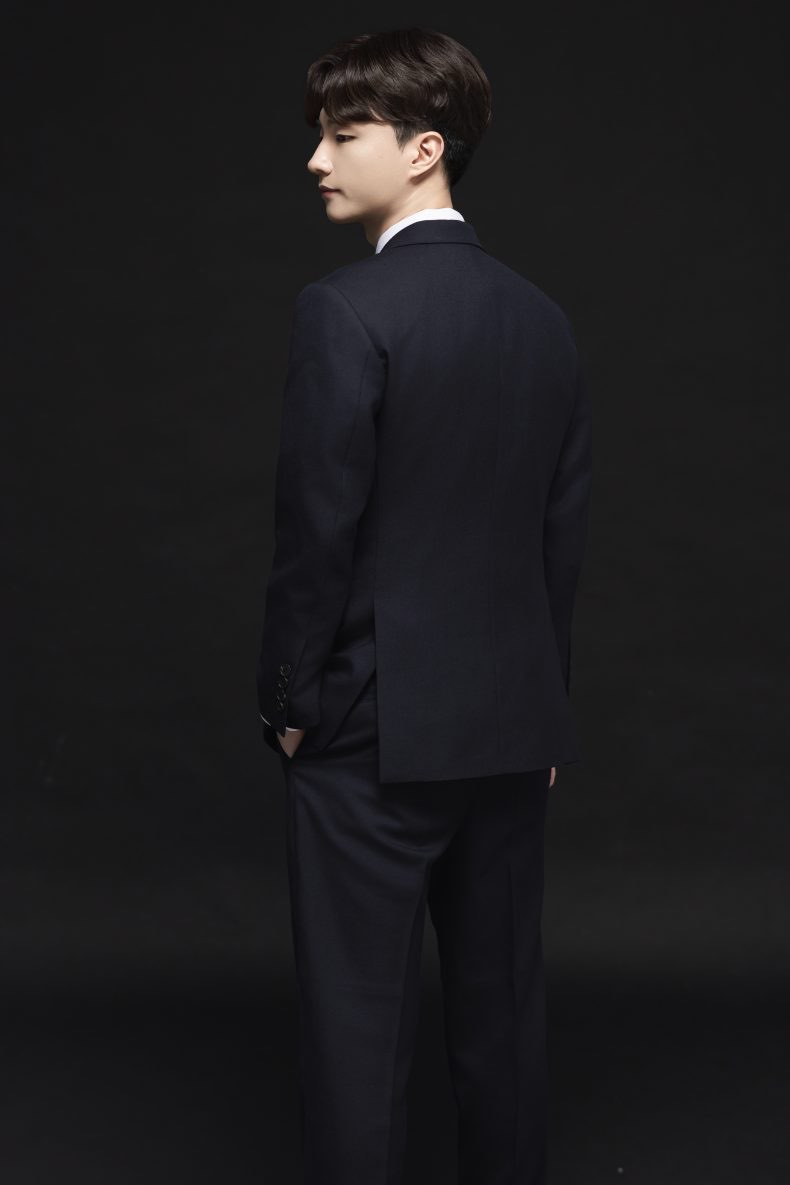
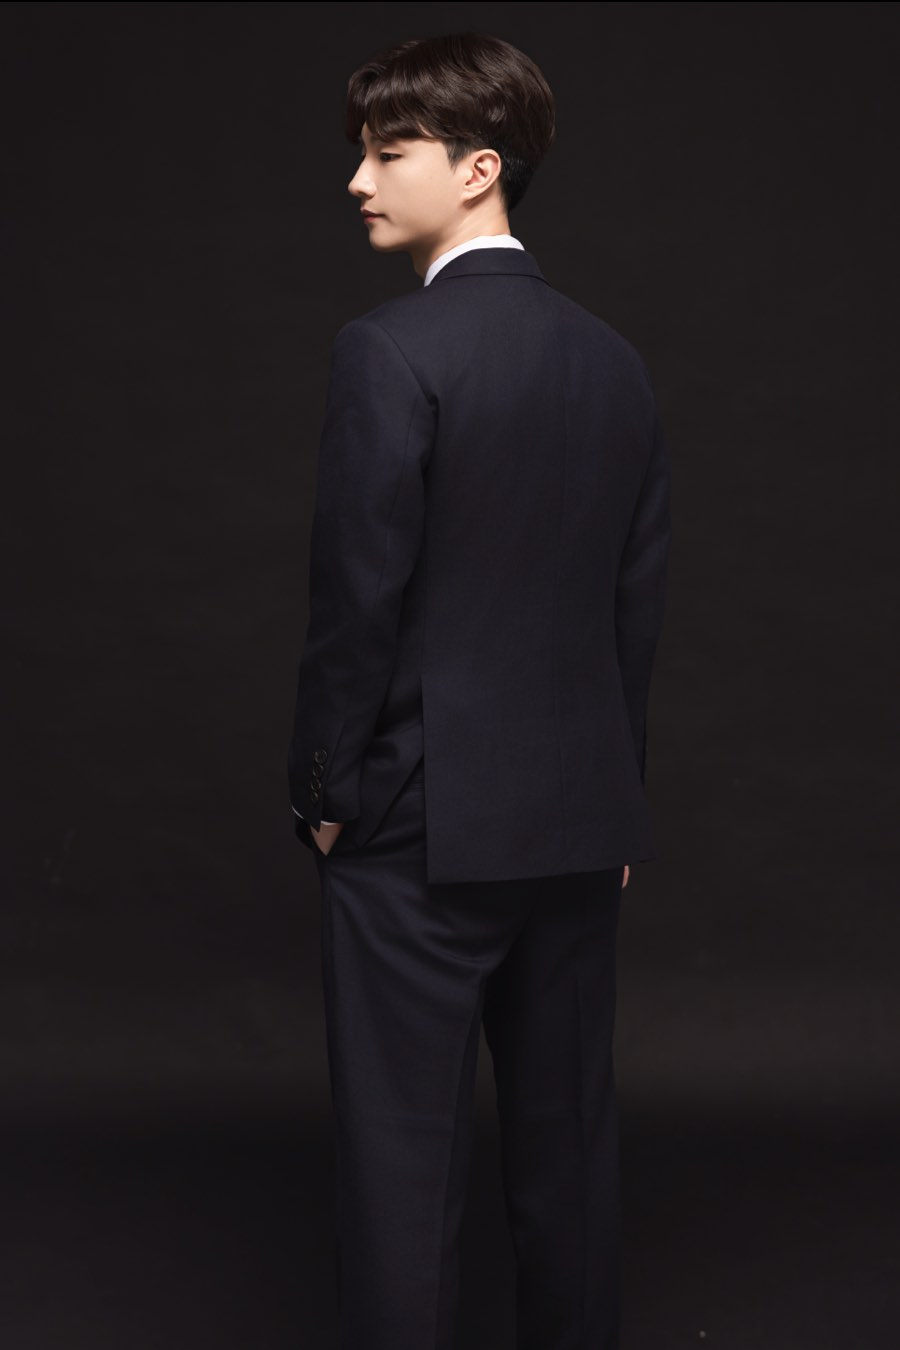
18번 사진(검정 배경 신랑)을 새 보정본으로 교체
같은 뒷모습 컷의 더 깨끗한 보정본입니다. 964x1452 (0.6639) -> 900x1350
으로 잘라 나머지와 같은 2:3 (0.66667) 에 맞췄습니다.

기존 파일은 790x1185 로 갤러리에서 해상도가 가장 낮은 축이었는데,
새 원본이 더 커서 900x1350 으로 올라갔습니다.

뒤돌아선 자세라 옆얼굴만 잡히는데도 얼굴 인식이 돼서, 세로는 6px 만
아래에서 깎이고 머리 위 여백은 그대로 유지됐습니다.

파일명이 그대로라 캐시 버전을 ?v=14 -> ?v=15 로 올렸습니다.

확인: 19장 비율 전부 0.66667(+가로 1장), 썸네일<->원본 19쌍 픽셀 대조
전부 일치, 캐시 없는 프로필에서 로드 실패 0건 / 버전 누락 0건,
18번 탭 -> g18.jpg "18 / 19" (900x1350).

Assisted-by: Claude Code (Opus 5)

Changed region(s): [[0.3949, 0.0312, 0.6076, 0.2186], [0.3342, 0.5932, 0.3949, 0.6557]]

diff --git a/index.html b/index.html
@@ -10,7 +10,7 @@
 <meta property="og:title" content="이수영 ♥ 이정은 결혼합니다">
 <meta property="og:description" content="2026년 12월 12일 토요일 오후 4시, 세인트메리엘 1층 메리엘홀">
 <meta property="og:url" content="https://suyoung-lee.github.io/wedding/">
-<meta property="og:image" content="https://suyoung-lee.github.io/wedding/assets/og.jpg?v=14">
+<meta property="og:image" content="https://suyoung-lee.github.io/wedding/assets/og.jpg?v=15">
 <meta name="description" content="2026년 12월 12일 토요일 오후 4시, 세인트메리엘 1층 메리엘홀">
 <meta name="theme-color" content="#fbfaf7">
 
@@ -283,7 +283,7 @@
   <!-- ══════════ 표지 ══════════ -->
   <header class="cover">
     <div class="photo noSave">
-      <img src="assets/cover.jpg?v=14" alt="신랑 이수영, 신부 이정은" draggable="false">
+      <img src="assets/cover.jpg?v=15" alt="신랑 이수영, 신부 이정은" draggable="false">
     </div>
     <div class="fade"></div>
     <div class="frame"></div>
@@ -354,25 +354,25 @@
   <section>
     <p class="label">Gallery</p>
     <div class="grid collapsed noSave" id="grid">
-      <button class="ph wide" type="button" data-full="assets/g01.jpg?v=14" aria-label="웨딩 사진 1번, 크게 보기"><img src="assets/wide.jpg?v=14" alt="" loading="lazy"></button>
-      <button class="ph" type="button" data-full="assets/g02.jpg?v=14" aria-label="웨딩 사진 2번, 크게 보기"><img src="assets/t02.jpg?v=14" alt="" loading="lazy"></button>
-      <button class="ph" type="button" data-full="assets/g03.jpg?v=14" aria-label="웨딩 사진 3번, 크게 보기"><img src="assets/t03.jpg?v=14" alt="" loading="lazy"></button>
-      <button class="ph" type="button" data-full="assets/g04.jpg?v=14" aria-label="웨딩 사진 4번, 크게 보기"><img src="assets/t04.jpg?v=14" alt="" loading="lazy"></button>
-      <button class="ph" type="button" data-full="assets/g05.jpg?v=14" aria-label="웨딩 사진 5번, 크게 보기"><img src="assets/t05.jpg?v=14" alt="" loading="lazy"></button>
-      <button class="ph" type="button" data-full="assets/g06.jpg?v=14" aria-label="웨딩 사진 6번, 크게 보기"><img src="assets/t06.jpg?v=14" alt="" loading="lazy"></button>
-      <button class="ph" type="button" data-full="assets/g07.jpg?v=14" aria-label="웨딩 사진 7번, 크게 보기"><img src="assets/t07.jpg?v=14" alt="" loading="lazy"></button>
-      <button class="ph" type="button" data-full="assets/g08.jpg?v=14" aria-label="웨딩 사진 8번, 크게 보기"><img src="assets/t08.jpg?v=14" alt="" loading="lazy"></button>
-      <button class="ph" type="button" data-full="assets/g09.jpg?v=14" aria-label="웨딩 사진 9번, 크게 보기"><img src="assets/t09.jpg?v=14" alt="" loading="lazy"></button>
-      <button class="ph" type="button" data-full="assets/g10.jpg?v=14" aria-label="웨딩 사진 10번, 크게 보기"><img src="assets/t10.jpg?v=14" alt="" loading="lazy"></button>
-      <button class="ph" type="button" data-full="assets/g11.jpg?v=14" aria-label="웨딩 사진 11번, 크게 보기"><img src="assets/t11.jpg?v=14" alt="" loading="lazy"></button>
-      <button class="ph" type="button" data-full="assets/g12.jpg?v=14" aria-label="웨딩 사진 12번, 크게 보기"><img src="assets/t12.jpg?v=14" alt="" loading="lazy"></button>
-      <button class="ph" type="button" data-full="assets/g13.jpg?v=14" aria-label="웨딩 사진 13번, 크게 보기"><img src="assets/t13.jpg?v=14" alt="" loading="lazy"></button>
-      <button class="ph" type="button" data-full="assets/g14.jpg?v=14" aria-label="웨딩 사진 14번, 크게 보기"><img src="assets/t14.jpg?v=14" alt="" loading="lazy"></button>
-      <button class="ph" type="button" data-full="assets/g15.jpg?v=14" aria-label="웨딩 사진 15번, 크게 보기"><img src="assets/t15.jpg?v=14" alt="" loading="lazy"></button>
-      <button class="ph" type="button" data-full="assets/g16.jpg?v=14" aria-label="웨딩 사진 16번, 크게 보기"><img src="assets/t16.jpg?v=14" alt="" loading="lazy"></button>
-      <button class="ph" type="button" data-full="assets/g17.jpg?v=14" aria-label="웨딩 사진 17번, 크게 보기"><img src="assets/t17.jpg?v=14" alt="" loading="lazy"></button>
-      <button class="ph" type="button" data-full="assets/g18.jpg?v=14" aria-label="웨딩 사진 18번, 크게 보기"><img src="assets/t18.jpg?v=14" alt="" loading="lazy"></button>
-      <button class="ph" type="button" data-full="assets/g19.jpg?v=14" aria-label="웨딩 사진 19번, 크게 보기"><img src="assets/t19.jpg?v=14" alt="" loading="lazy"></button>
+      <button class="ph wide" type="button" data-full="assets/g01.jpg?v=15" aria-label="웨딩 사진 1번, 크게 보기"><img src="assets/wide.jpg?v=15" alt="" loading="lazy"></button>
+      <button class="ph" type="button" data-full="assets/g02.jpg?v=15" aria-label="웨딩 사진 2번, 크게 보기"><img src="assets/t02.jpg?v=15" alt="" loading="lazy"></button>
+      <button class="ph" type="button" data-full="assets/g03.jpg?v=15" aria-label="웨딩 사진 3번, 크게 보기"><img src="assets/t03.jpg?v=15" alt="" loading="lazy"></button>
+      <button class="ph" type="button" data-full="assets/g04.jpg?v=15" aria-label="웨딩 사진 4번, 크게 보기"><img src="assets/t04.jpg?v=15" alt="" loading="lazy"></button>
+      <button class="ph" type="button" data-full="assets/g05.jpg?v=15" aria-label="웨딩 사진 5번, 크게 보기"><img src="assets/t05.jpg?v=15" alt="" loading="lazy"></button>
+      <button class="ph" type="button" data-full="assets/g06.jpg?v=15" aria-label="웨딩 사진 6번, 크게 보기"><img src="assets/t06.jpg?v=15" alt="" loading="lazy"></button>
+      <button class="ph" type="button" data-full="assets/g07.jpg?v=15" aria-label="웨딩 사진 7번, 크게 보기"><img src="assets/t07.jpg?v=15" alt="" loading="lazy"></button>
+      <button class="ph" type="button" data-full="assets/g08.jpg?v=15" aria-label="웨딩 사진 8번, 크게 보기"><img src="assets/t08.jpg?v=15" alt="" loading="lazy"></button>
+      <button class="ph" type="button" data-full="assets/g09.jpg?v=15" aria-label="웨딩 사진 9번, 크게 보기"><img src="assets/t09.jpg?v=15" alt="" loading="lazy"></button>
+      <button class="ph" type="button" data-full="assets/g10.jpg?v=15" aria-label="웨딩 사진 10번, 크게 보기"><img src="assets/t10.jpg?v=15" alt="" loading="lazy"></button>
+      <button class="ph" type="button" data-full="assets/g11.jpg?v=15" aria-label="웨딩 사진 11번, 크게 보기"><img src="assets/t11.jpg?v=15" alt="" loading="lazy"></button>
+      <button class="ph" type="button" data-full="assets/g12.jpg?v=15" aria-label="웨딩 사진 12번, 크게 보기"><img src="assets/t12.jpg?v=15" alt="" loading="lazy"></button>
+      <button class="ph" type="button" data-full="assets/g13.jpg?v=15" aria-label="웨딩 사진 13번, 크게 보기"><img src="assets/t13.jpg?v=15" alt="" loading="lazy"></button>
+      <button class="ph" type="button" data-full="assets/g14.jpg?v=15" aria-label="웨딩 사진 14번, 크게 보기"><img src="assets/t14.jpg?v=15" alt="" loading="lazy"></button>
+      <button class="ph" type="button" data-full="assets/g15.jpg?v=15" aria-label="웨딩 사진 15번, 크게 보기"><img src="assets/t15.jpg?v=15" alt="" loading="lazy"></button>
+      <button class="ph" type="button" data-full="assets/g16.jpg?v=15" aria-label="웨딩 사진 16번, 크게 보기"><img src="assets/t16.jpg?v=15" alt="" loading="lazy"></button>
+      <button class="ph" type="button" data-full="assets/g17.jpg?v=15" aria-label="웨딩 사진 17번, 크게 보기"><img src="assets/t17.jpg?v=15" alt="" loading="lazy"></button>
+      <button class="ph" type="button" data-full="assets/g18.jpg?v=15" aria-label="웨딩 사진 18번, 크게 보기"><img src="assets/t18.jpg?v=15" alt="" loading="lazy"></button>
+      <button class="ph" type="button" data-full="assets/g19.jpg?v=15" aria-label="웨딩 사진 19번, 크게 보기"><img src="assets/t19.jpg?v=15" alt="" loading="lazy"></button>
     </div>
     <button class="more" type="button" id="more">사진 더보기<span class="chev" aria-hidden="true"></span></button>
   </section>
@@ -385,8 +385,8 @@
     <h2>세인트메리엘</h2>
     <p class="sub">1층 메리엘홀</p>
 
-    <a class="mapWrap noSave" href="assets/map-full.png?v=14" target="_blank" rel="noopener">
-      <img src="assets/map.png?v=14" alt="세인트메리엘 약도" loading="lazy" draggable="false">
+    <a class="mapWrap noSave" href="assets/map-full.png?v=15" target="_blank" rel="noopener">
+      <img src="assets/map.png?v=15" alt="세인트메리엘 약도" loading="lazy" draggable="false">
     </a>
     <p class="mapHint">약도를 누르면 크게 볼 수 있습니다</p>
 

diff --git a/build_assets.py b/build_assets.py
@@ -18,8 +18,8 @@ OUT = "assets"
 # index.html 의 이미지 URL 뒤 ?v=N 캐시 버전. 파일명을 그대로 두고 사진 내용만
 # 바꾸면 이미 청첩장을 열어본 브라우저가 캐시된 옛 사진을 계속 보여줍니다
 # (썸네일만 바뀌고 뷰어는 옛 사진이 뜨는 식). 사진을 갈아끼울 때마다 올리세요.
-#   sed -i '' 's/?v=[0-9]*/?v=15/g' index.html
-ASSET_V = 14
+#   sed -i '' 's/?v=[0-9]*/?v=16/g' index.html
+ASSET_V = 15
 os.makedirs(OUT, exist_ok=True)
 
 A = lambda n: os.path.join(SRC, f"KakaoTalk_20260909_203020487{n}.png")
@@ -60,7 +60,7 @@ ORDER = [
     (N("K_그린월두사람"),          "가든 - 잎사귀 배경"),
     # 검정 배경 스튜디오 (맨 뒤)
     (N("N_검정신부_옆모습"), "검정 배경 스튜디오 - 신부"),
-    (A("_15"), "검정 배경 스튜디오 - 신랑"),
+    (N("O_검정신랑_뒷모습"), "검정 배경 스튜디오 - 신랑"),
     (N("M_검정두사람"),   "검정 배경 스튜디오 - 두 사람"),
 ]
 
@@ -89,7 +89,7 @@ FACE = [
     (0.504, 0.263),   # 15 가든 소파 신부 (두 사람 컷 사이에 끼움)
     (0.516, 0.513),   # 16 그린월 두 사람 (인물이 아래쪽이라 세로 중심이 낮음)
     (0.651, 0.264),   # 17 검정 신부 (옆모습)
-    (0.435, 0.136),   # 18 검정 신랑
+    (0.430, 0.139),   # 18 검정 신랑 (뒷모습 — 옆얼굴만 인식됨)
     (0.504, 0.255),   # 19 검정 두 사람
 ]
 assert len(FACE) == len(ORDER), "FACE 와 ORDER 개수가 다릅니다"
